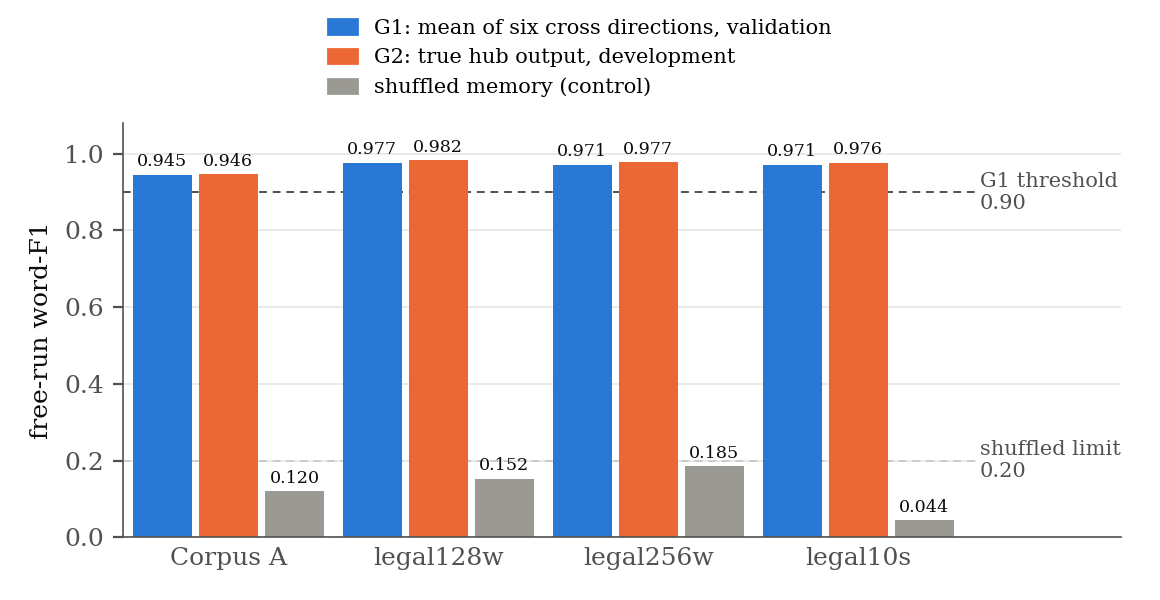
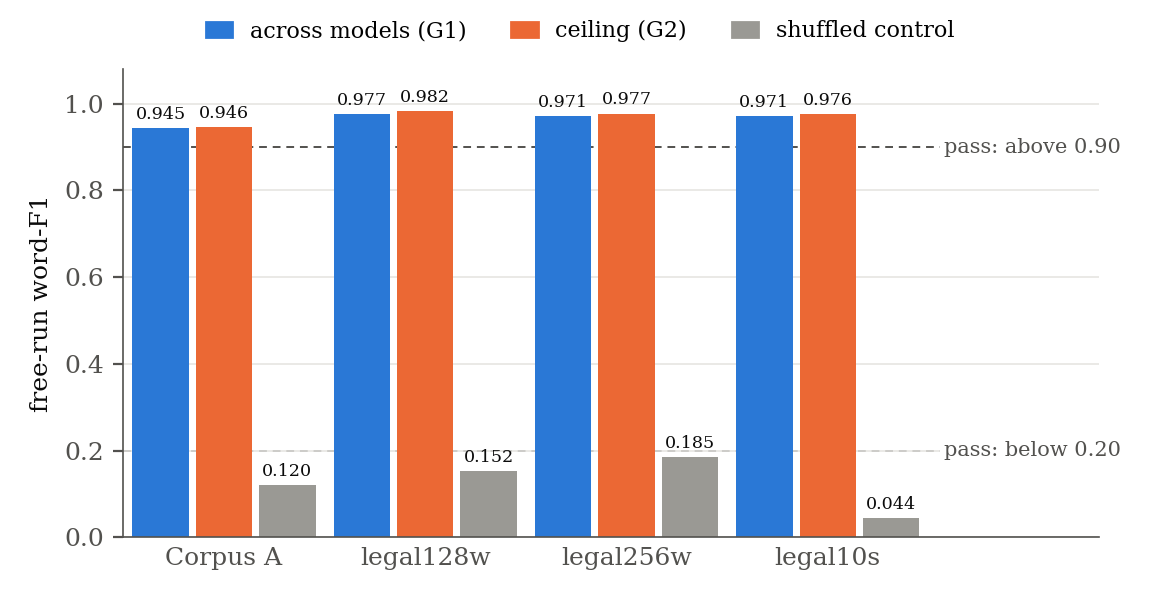
ch3 gates figure: short legend and threshold labels; caption defines G1, G2 and the control

Changed region(s): [[0.0621, 0.03, 0.9621, 0.96], [0.0, 0.36, 0.1241, 0.78]]

diff --git a/figures/scripts/make_hub_figures.py b/figures/scripts/make_hub_figures.py
@@ -140,28 +140,27 @@ def gates():
     GRAY = "#9a9994"
     fig, ax = plt.subplots(figsize=(5.8, 3.0))
     width = 0.28
-    series = [("G1: mean of six cross directions, validation", BLUE), ("G2: true hub output, development", ORANGE),
-              ("shuffled memory (control)", GRAY)]
+    series = [("across models (G1)", BLUE), ("ceiling (G2)", ORANGE), ("shuffled control", GRAY)]
     for i, row in enumerate(rows):
         for k, (value, (_, color)) in enumerate(zip(row[1:], series)):
             x = i + (k - 1) * (width + 0.035)
             ax.bar(x, value, width, color=color, zorder=2)
             ax.text(x, value + 0.012, f"{value:.3f}", ha="center", va="bottom", fontsize=6.3, color=INK)
-    for y, text in ((0.90, "G1 threshold\n0.90"), (0.20, "shuffled limit\n0.20")):
+    for y, text in ((0.90, "pass: above 0.90"), (0.20, "pass: below 0.20")):
         ax.axhline(y, color=INK2, lw=0.7, ls=(0, (4, 3)), zorder=1)
         ax.text(len(rows) - 0.42, y, text, fontsize=7.5, color=INK2, ha="left", va="center",
                 bbox=dict(fc=SURFACE, ec="none", pad=1.5), zorder=4)
     ax.set_xticks(range(len(rows)), [r[0] for r in rows])
-    ax.set_xlim(-0.5, len(rows) + 0.25)
+    ax.set_xlim(-0.5, len(rows) + 0.35)
     ax.set_ylim(0, 1.08)
     ax.set_yticks([0, 0.2, 0.4, 0.6, 0.8, 1.0])
     ax.set_ylabel("free-run word-F1")
     ax.tick_params(axis="x", length=0)
     ax.grid(axis="y", zorder=0)
     handles = [plt.Rectangle((0, 0), 1, 1, color=c) for _, c in series]
-    fig.legend(handles, [n for n, _ in series], loc="upper center", ncol=1, fontsize=7.5,
-               bbox_to_anchor=(0.5, 1.0), handlelength=1.4)
-    fig.tight_layout(rect=(0, 0, 1, 0.84))
+    fig.legend(handles, [n for n, _ in series], loc="upper center", ncol=3, fontsize=8,
+               bbox_to_anchor=(0.5, 1.0), handlelength=1.2, columnspacing=2.0)
+    fig.tight_layout(rect=(0, 0, 1, 0.93))
     save(fig, "hub_gates")
 
 

diff --git a/chapters/ch3_translation_hub/draft_v2/ch3_hub_draft.tex b/chapters/ch3_translation_hub/draft_v2/ch3_hub_draft.tex
@@ -118,7 +118,7 @@ legal10s & \vf{0.976} & \todo{} & \vf{0.044} \\ % src: oct_w5b-report
 \begin{figure}[ht]
 \centering
 \includegraphics[width=0.85\textwidth]{ch3/hub_gates}
-\caption{Each of the four hubs clears the G1 threshold of \vf{0.90} and holds its shuffled-memory control below \vf{0.20}. G1 is read on \vf{5{,}000} validation prompts, G2 on \vf{500} development prompts; the legal256w control is the largest of its six cross directions, the others their mean. One hub seed per corpus.}
+\caption{Each of the four hubs clears the G1 threshold of \vf{0.90} and holds its shuffled-memory control below \vf{0.20}. Across models (G1): each model's hub output decoded by the other two models, the mean of six source-decoder pairs, \vf{5{,}000} validation prompts. Ceiling (G2): the true hub output of OLMo decoded by all three decoders, \vf{500} development prompts. Shuffled control: the same hub outputs in random order; the legal256w control is the largest of its six cross directions, the others their mean. One hub seed per corpus.}
 \label{fig:hub:gates}
 \end{figure}
 
